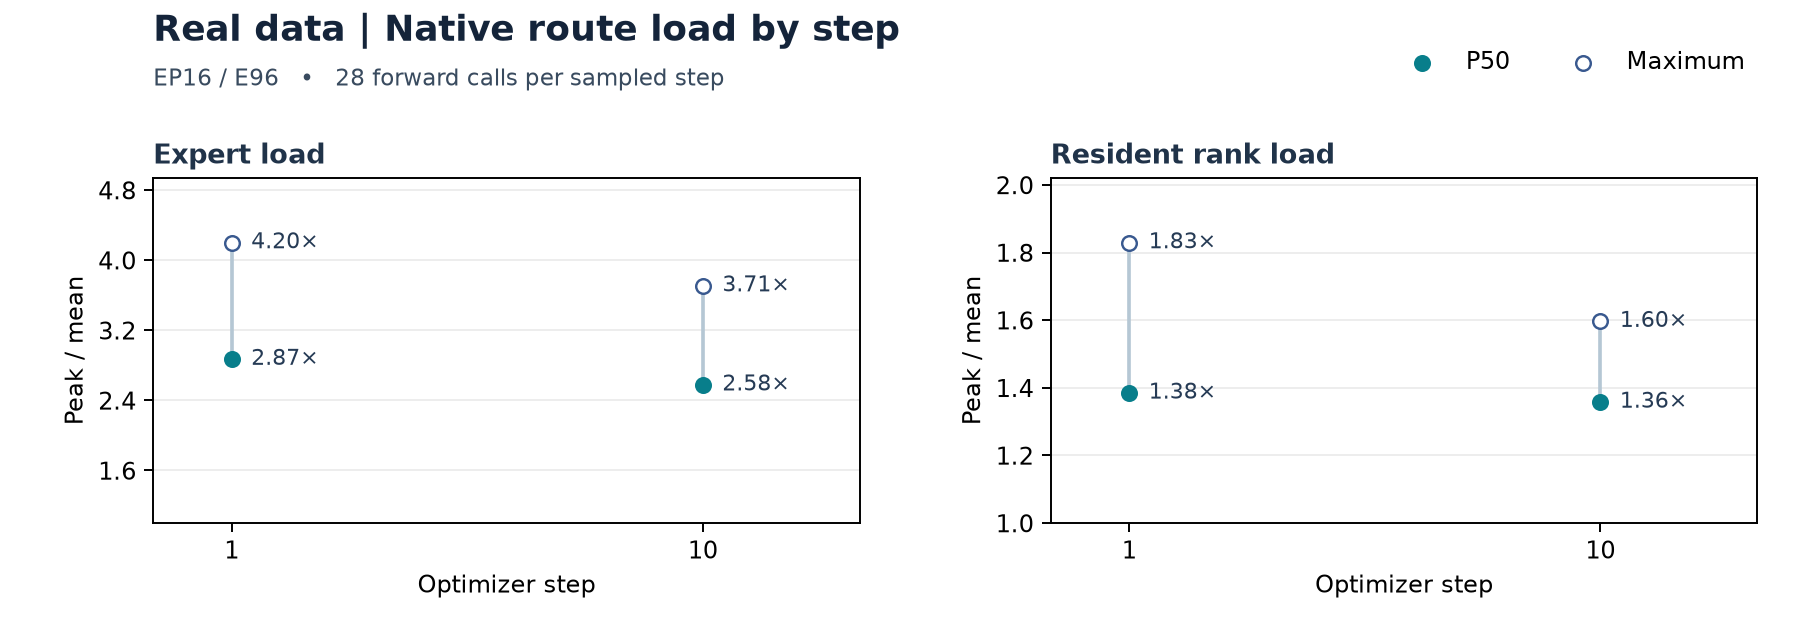
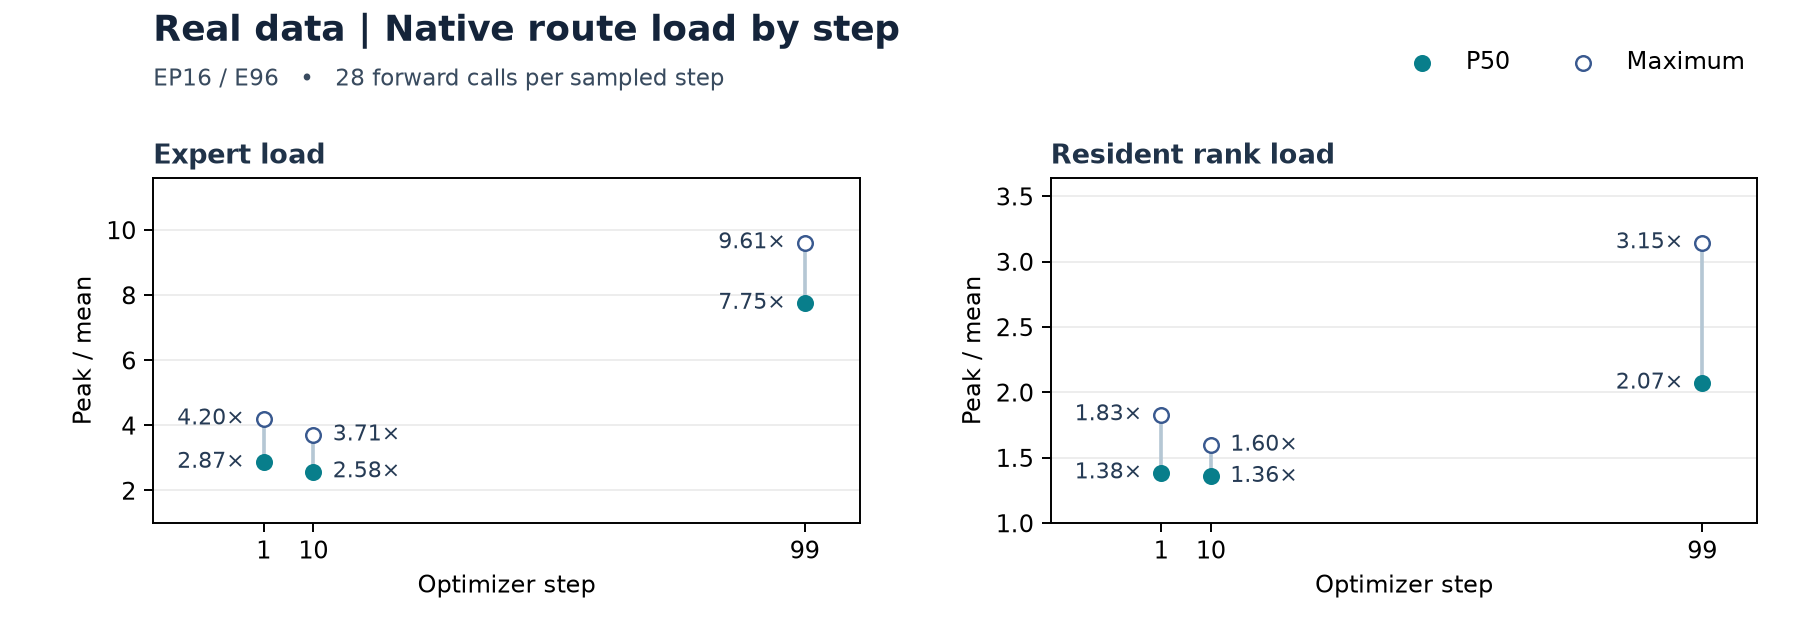
docs: show all sampled A5 routing steps

diff --git a/docs/benchmarks/pangu_a5_ep16_bf16_synthetic_megamoe_vs_native.md b/docs/benchmarks/pangu_a5_ep16_bf16_synthetic_megamoe_vs_native.md
@@ -59,9 +59,9 @@ HotReplica 在正式窗口有 72/88 步比 B0 快。每 rank 有 4,302/4,576 次
 | 10 | 7.35× / 9.93× | 2.58× / 3.71× | 2.48× / 3.40× | 1.36× / 1.60× |
 | 99 | 4.51× / 6.89× | 7.75× / 9.61× | 1.60× / 1.92× | 2.07× / 3.15× |
 
-合成组从第 1 到第 10 步的专家和 rank 峰均比都下降，两个采样点的负载都比真实组集中。到第 99 步，合成组两项峰均比进一步下降，真实组的最忙 rank 峰均比则升至最高 3.15×，高于合成组的 1.92×。路由直方图采集于第 1、10、99 步，图中展示合成组的前两个采样点。 [路由采样明细](assets/pangu-a5-ep16-bf16-synthetic/route-skew-comparison.json) · [真实数据报告](pangu_a5_ep16_bf16_real_megamoe_vs_native.md)
+合成组从第 1 到第 10 步的专家和 rank 峰均比都下降，两个采样点的负载都比真实组集中。到第 99 步，合成组两项峰均比进一步下降，真实组的最忙 rank 峰均比则升至最高 3.15×，高于合成组的 1.92×。 [路由采样明细](assets/pangu-a5-ep16-bf16-synthetic/route-skew-comparison.json) · [真实数据报告](pangu_a5_ep16_bf16_real_megamoe_vs_native.md)
 
-![合成数据 Native 的专家和原属 rank 峰均比随训练步的变化](assets/pangu-a5-ep16-bf16-synthetic/route-skew-by-step.png)
+![合成数据 Native 在第 1、10、99 步的专家和原属 rank 峰均比](assets/pangu-a5-ep16-bf16-synthetic/route-skew-by-step.png)
 
 ### 2.3 统计口径
 

diff --git a/docs/benchmarks/pangu_a5_ep16_bf16_real_megamoe_vs_native.md b/docs/benchmarks/pangu_a5_ep16_bf16_real_megamoe_vs_native.md
@@ -59,9 +59,9 @@ HotReplica 在正式窗口有 58/88 步比 B0 快。每 rank 有 3,644/4,576 次
 | 10 | 2.58× / 3.71× | 1.36× / 1.60× |
 | 99 | 7.75× / 9.61× | 2.07× / 3.15× |
 
-第 1 到第 10 步，两项峰均比均略降。第 99 步，专家和 rank 峰均比的中位数分别升至 7.75× 和 2.07×，最忙 rank 的单次峰均比达到 3.15×。路由直方图采集于第 1、10、99 步，图中展示前两个采样点。 [路由采样明细](assets/pangu-a5-ep16-bf16-synthetic/route-skew-comparison.json)
+第 1 到第 10 步，两项峰均比均略降。第 99 步，专家和 rank 峰均比的中位数分别升至 7.75× 和 2.07×，最忙 rank 的单次峰均比达到 3.15×。 [路由采样明细](assets/pangu-a5-ep16-bf16-synthetic/route-skew-comparison.json)
 
-![真实数据 Native 的专家和原属 rank 峰均比随训练步的变化](assets/pangu-a5-ep16-bf16-real/route-skew-by-step.png)
+![真实数据 Native 在第 1、10、99 步的专家和原属 rank 峰均比](assets/pangu-a5-ep16-bf16-real/route-skew-by-step.png)
 
 ### 2.3 统计口径
 
